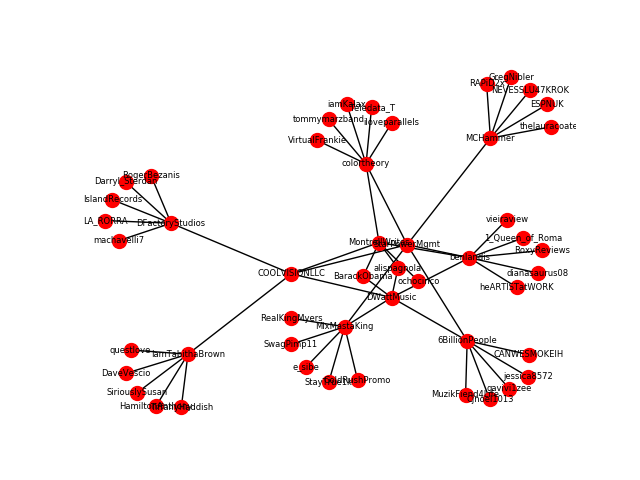
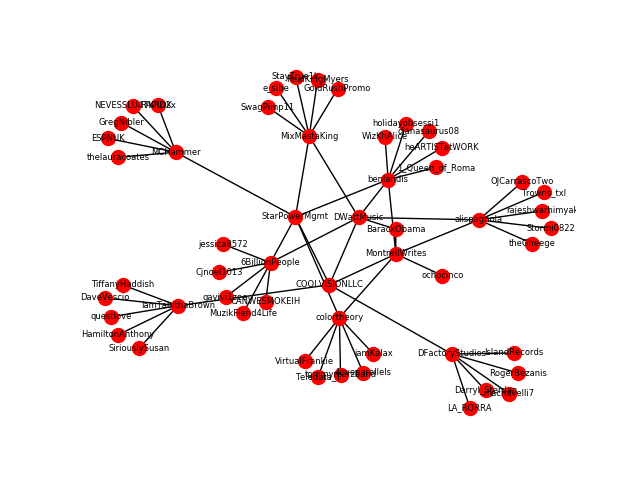
added friends.py

diff --git a/friends.py b/friends.py
@@ -1,0 +1,121 @@
+
+from twitter_cookbook.twitter_request import make_twitter_request
+from sys import maxsize as maxint
+from profile import Profile
+import sys
+
+
+class Friends:
+    def __init__(self, *args, **kwargs):
+        """gets reciprocal friends/followers and returns their ids back to Crawl
+
+        Args:
+            api: (api object) twitter authenticated api object
+            screen_name: (str) twitter screen name
+            user_id: (int) twitter user id
+            friends_ids: (list) of friends ids
+            followers_ids: (list) of followers ids
+            friends_limit: (int) maximum amount of friend ids to get
+            followers_limit: (int) maximum amount of follower ids to get
+        """
+        self.kwargs = {k:v for k,v in kwargs.items()}
+        self.twitter_api = self.kwargs.get('twitter_api')
+        self.screen_name = self.kwargs.get('screen_name', None)
+        self.user_id = self.kwargs.get('user_id', None)
+        self.friends_ids = []
+        self.followers_ids = []
+        self.friends_limit = 150000
+        self.followers_limit = 150000
+        self.found_reciprocal = False
+        self.reciprocal_friends_count = 0
+        self.friends_cursor = -1
+        self.follower_cursor = -1
+
+    def get_friends_followers_ids(self, _user_id=None):
+        """use twitter friend.ids/follower.ids api to get friend/follower ids
+
+        Args:
+            _user_id: (int) optional argument passed from caller--not class object
+
+        Returns: (tuple) of two friend and follower lists
+
+        """
+        # Must have either screen_name or user_id (logical xor)
+        assert (self.screen_name != None) != (self.user_id != None), \
+            "Must have screen_name or user_id, but not both"
+
+        while not self.found_reciprocal:  # loop until 5 or more reciprocal friends are found
+
+            # get friends/follower ids in two sequential for loops to check for reciprocal friends after each batch of
+            # 5000 friends/follower ids  TODO: generalize this into a function i.e get_ids(api) -> id_list
+            for ids, label in [[self.friends_ids, 'friends']]:  # using for loop to encapsulate variable scope
+                if self.friends_cursor == 0:  # break out of loop if there are no more friends
+                    break
+                if self.screen_name:
+                    response = make_twitter_request(self.twitter_api.friends.ids, count=5000,
+                                                    screen_name=self.screen_name, cursor=self.friends_cursor)
+                elif not self.user_id and _user_id:  # _user_id passed as argument to function not class constructor
+                    response = make_twitter_request(self.twitter_api.friends.ids, count=5000,
+                                                    user_id=_user_id, cursor=self.friends_cursor)
+                else:  # user_id
+                    response = response = make_twitter_request(self.twitter_api.friends.ids, count=5000,
+                                                    user_id=self.user_id, cursor=self.friends_cursor)
+
+                if response is not None:
+                    self.friends_ids += response['ids']  # append returned friend ids
+                    self.friends_cursor = response['next_cursor']  # points the cursor to the next page of results
+                else:
+                    print('No response')
+                    break
+                print(f"Got {len(response['ids'])} total {label} ids for {self.screen_name or self.user_id}")
+                break  # don't need break here?
+
+            # get_follower ids
+            for ids, label in [[self.followers_ids, 'followers']]:  # using for loop to encapsulate variable scope
+                if self.follower_cursor == 0:  # break out of loop if there are no more followers
+                    break
+                if self.screen_name:
+                    response = make_twitter_request(self.twitter_api.followers.ids, count=5000,
+                                                    screen_name=self.screen_name, cursor=self.follower_cursor)
+                elif not self.user_id and _user_id:  # _user_id passed as argument to function not class constructor
+                    response = make_twitter_request(self.twitter_api.followers.ids, count=5000,
+                                                    user_id=_user_id, cursor=self.follower_cursor)
+                else:  # user_id
+                    response = response = make_twitter_request(self.twitter_api.followers.ids, count=5000,
+                                                               user_id=self.user_id, cursor=self.follower_cursor)
+
+                if response is not None:
+                    # ids += response['ids']
+                    self.followers_ids += response['ids']  # append returned follower ids
+                    self.follower_cursor = response['next_cursor']  # points the cursor to the next page of results
+                else:
+                    print('No response')
+                    break
+                print(f"Got {len(response['ids'])} total {label} ids for {self.screen_name or self.user_id}")
+                # check for reciprocal friends
+                self.found_reciprocal = self._check_reciprocal()
+
+        return self.friends_ids[:maxint], self.followers_ids[:maxint]
+
+    def _check_reciprocal(self):
+        """gets set intersection (reciprocal friends) of friends and follower lists
+
+        Returns: (boolean) returns True if reciprocal friends are found
+        """
+        self.reciprocal_friends = list(set(self.friends_ids) & set(self.followers_ids))
+        if len(self.reciprocal_friends) >= 5:
+            self._get_top_friends()
+            return True
+        if len(self.friends_ids) > self.friends_limit or len(self.followers_ids) > self.friends_limit:
+            print(f"Maximum friends/followers count of {self.friends_limit} reached. No reciprocal friends found for {self.user_id}")
+            return True  # causes while loop to end and send emtpy reciprocal friend list back to caller
+        print(f"No reciprocal friends found for {self.screen_name or self.user_id}, getting more friends and followers")
+        return False
+
+    def _get_top_friends(self):
+        """creates Profile object and calls its get_top_friends method to get the sorted top 5 ids by followers_count
+
+        Returns: (list) of top 5 follower ids
+
+        """
+        self.top_reciprocal_friends = Profile(twitter_api=self.twitter_api, user_ids=self.reciprocal_friends).get_top_friends()

diff --git a/twitter_cookbook/crawl.py b/twitter_cookbook/crawl.py
@@ -6,10 +6,19 @@ import json
 
 class Crawl(object):
     def __init__(self, *args, **kwargs):
+        """crawls a twitter graph starting from the root node and building a queue of reciprocal friends/followers
+        i.e. root -> set(friend/followers) -> set(friend/followers) ... self.node.count
+
+        Args:
+            twitter_api: (twitter api) authenticated twitter api obj
+            screen_name: (str) twitter screen name
+            node_max: (int) maximum amount of nodes to crawl, default:100
+            file_output: (file obj) file to write nodes to
+            seed_id: (int) starting point of crawl
+        """
         self.kwargs = {k:v for k,v in kwargs.items()}
         self.twitter_api = self.kwargs.get('twitter_api', None)
         self.screen_name = self.kwargs.get('screen_name', None)
-        # self.limit = self.kwargs.get('limit', 5000)
         self.node_count = 0
         self.node_max = self.kwargs.get('node_max', 100)
         self.seed_id = None
@@ -36,6 +45,7 @@ class Crawl(object):
             # set queue to next_queue and next_queue to empty list in preparation for another call to
             # get_friends_followers_ids()
             (self.queue, self.next_queue) = (self.next_queue, [])
+            print(self.queue)
             for fid in self.queue:  # get the friends and followers for each id in the queue
                 # variables returned from call to Friends.get_friends_followers_ids
                 friend_ids, follower_ids = Friends(twitter_api=self.twitter_api, user_id=fid).get_friends_followers_ids()
@@ -49,12 +59,6 @@ class Crawl(object):
                 self.node_list.extend(nodes_no_root)  # add to node list
                 print("{} nodes added to the queue".format(len(nodes_no_root)))
                 print(f"{self.node_count} total nodes")
-                # if self.node_count > self.node_max and len(self.next_queue) == 0:
-                #     self.write_to_disk(fid, 'reciprocal', reciprocal_friends)  # writes all reciprocal friends--including root--if present
-                #     break
-                # else:
-                #     self.write_to_disk(fid, 'reciprocal', reciprocal_friends)
-                #     continue
                 self.write_to_disk(fid, 'reciprocal', reciprocal_friends)  # writes all reciprocal friends--including root--if present
                 if self.node_count > self.node_max:
                     break
@@ -65,16 +69,16 @@ class Crawl(object):
         Args:
             friends: (list) of friends returned by call to Friends.get_friends_followers_ids()
 
-        Returns: top n reciprocal friends
+        Returns: top 5 reciprocal friends
         """
         reciprocal_friends = list(set(friend_ids) & set(follower_ids))  # get intersection of two lists
-        # if len(reciprocal_friends) == 0:
-        #     print(f"No reciprocal friends found for {self.screen_name} after searching {min(friend_ids,follower_ids)} IDs")
-        #     exit(1)
+        if len(reciprocal_friends) == 0:
+            print(f"No reciprocal friends found for {self.screen_name} after searching {min(friend_ids,follower_ids)} IDs")
+            exit(1)
         # get top 5 reciprocal friends by followers_count
         top_reciprocal_friends = Profile(twitter_api=self.twitter_api, user_ids=reciprocal_friends).get_top_friends()
-        # top_rfriends_no_recur = [id for id in top_reciprocal_friends if id != self.seed_id]
-        return top_reciprocal_friends
+        top_rfriends_no_recur = [id for id in top_reciprocal_friends if id != self.seed_id]
+        return top_rfriends_no_recur
 
     def write_to_disk(self, user_id, label, ids, screen_name=None):
         if screen_name:

diff --git a/main.py b/main.py
@@ -11,14 +11,14 @@ def main():
         # create authenticated twitter api object
         auth = authenticate.Authenticate(creds_file='twitter_creds.BU')
         #  crawl the given twitter profile for reciprocal friends
-        # crawl = Crawl(twitter_api=auth.twitter_api, screen_name='BarackObama', node_max=15)
+        # crawl = Crawl(twitter_api=auth.twitter_api, screen_name='BarackObama', node_max=60)
         # crawl = Crawl(twitter_api=auth.twitter_api, screen_name='smerconish', node_max=25)
         crawl = Crawl(twitter_api=auth.twitter_api, screen_name='COOLVISIONLLC', node_max=50)
         crawl.crawl_followers()
         crawl.file_output.close()  # close file
 
         #create a graph object using networkx and visualize it using graphviz
-        g = Graph(file='twitter_graph_COOLVISIONLLC.txt', use_name=True, twitter_api=auth.twitter_api)
+        g = Graph(file=crawl.file_output, use_name=True, twitter_api=auth.twitter_api)
 
     except Exception as e:
         print(traceback.format_exc())
